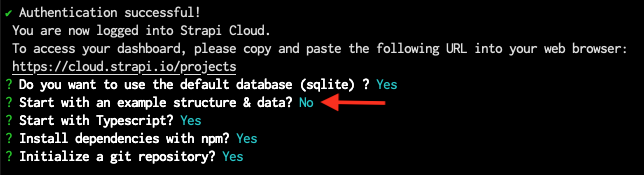
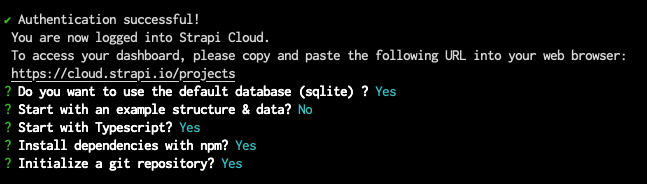
Update CLI prompts description in QSG

Changed region(s): [[0.0, 0.0286, 0.9938, 0.6286], [0.0, 0.6571, 0.4037, 0.8286], [0.0, 0.8571, 0.4037, 0.9429]]

diff --git a/docusaurus/docs/dev-docs/quick-start.md b/docusaurus/docs/dev-docs/quick-start.md
@@ -65,7 +65,7 @@ Follow the steps below by clicking on the togglable content to read more instruc
       }}
     />
 
-6. The terminal will now ask you a few questions. Answer 'Yes' by pressing `Enter` to all questions _except_ to **Start with an example structure & data**: for this question, press `n` to answer 'No'. We will guide you through the steps to create your own data structure and manually add data.
+6. The terminal will now ask you a few questions. Press `Enter` to accept the default answer to all questions.
 
     ![Questions and answers from the terminal](/img/assets/quick-start-guide/qsg-questions-answers-terminal.png)
 
